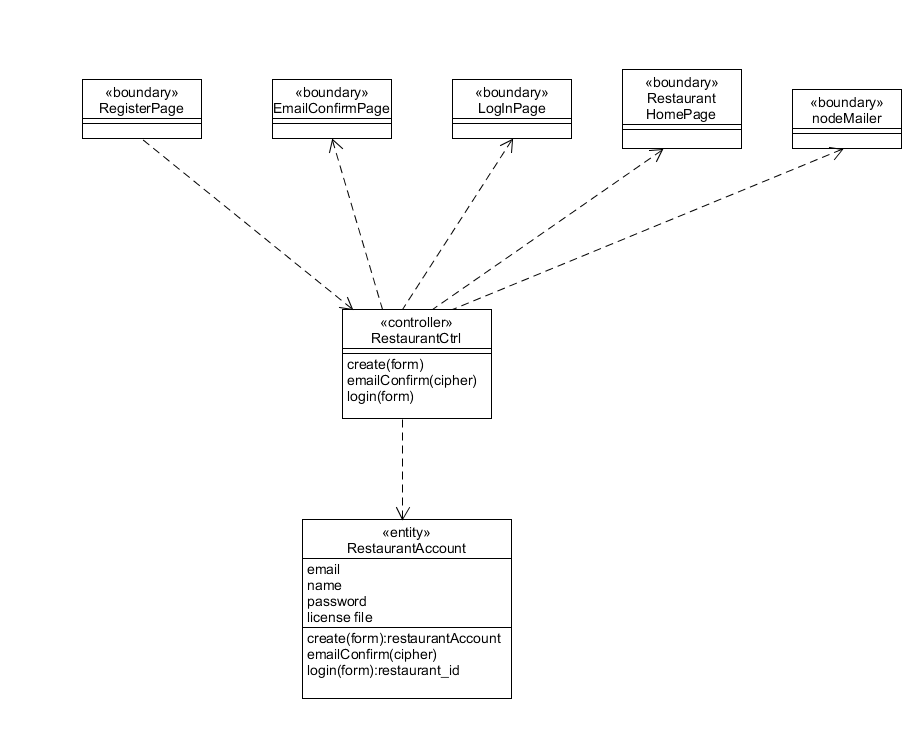
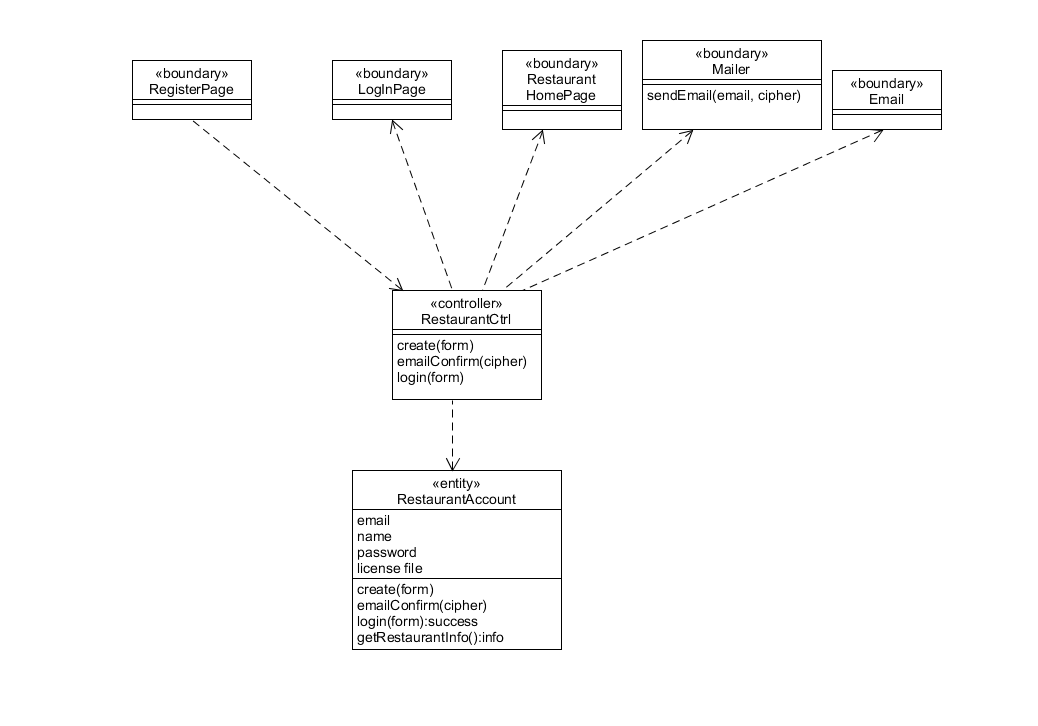
modify register login detail design

diff --git a/DetailDesign/register_login.md b/DetailDesign/register_login.md
@@ -4,10 +4,11 @@
 [注册登录用例详情](../UseCases/register_login.md)
 
 注册登录用例图如下：
-[](../img_use_case/register_login.png)
+![](../img_use_case/register.png)
 
 ### 顺序图
-![bce_sequence](BCE/register_login.png)
+![bce_sequence](BCE/register.png)
 
+![bce_sequence](BCE/login.png)
 ### 类图
 ![bce_class](class/register_login.png)
